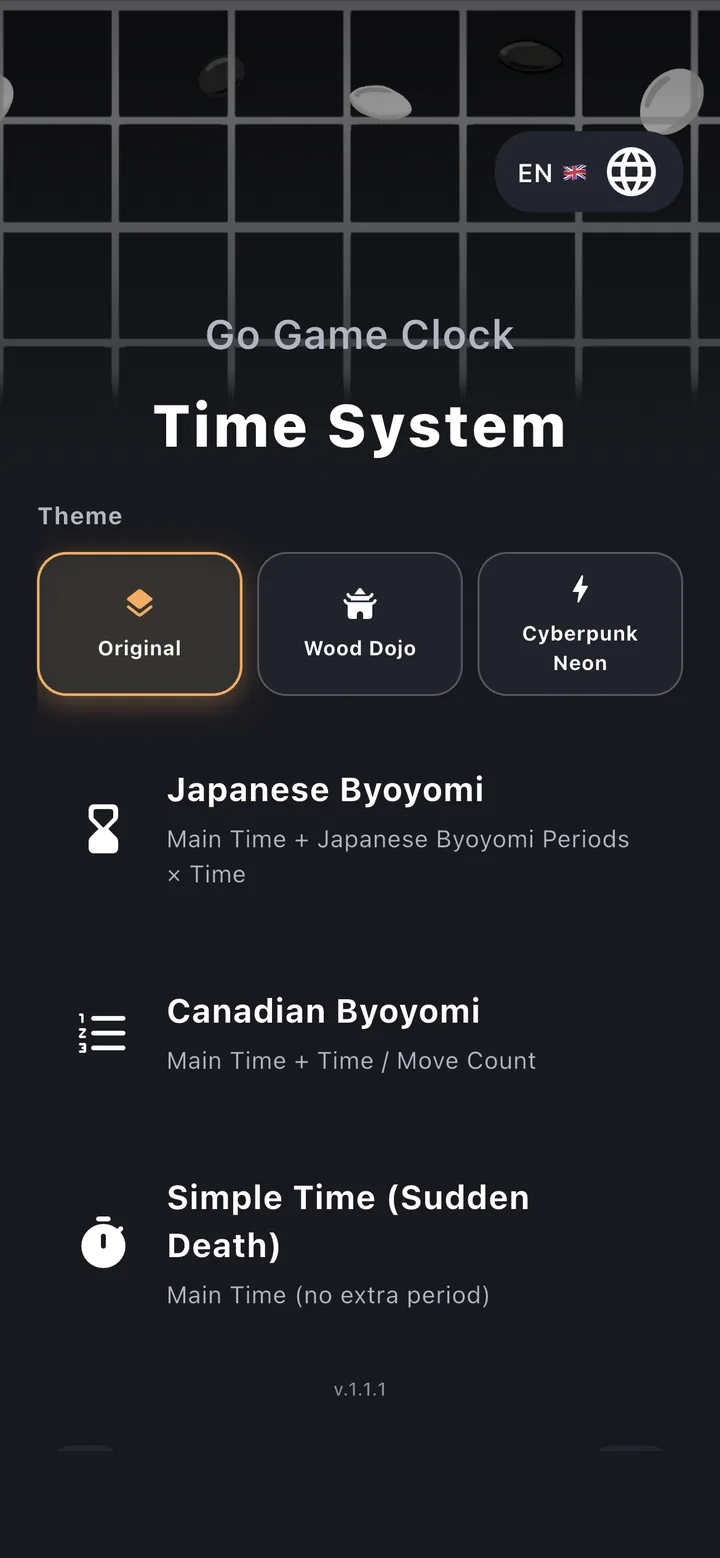
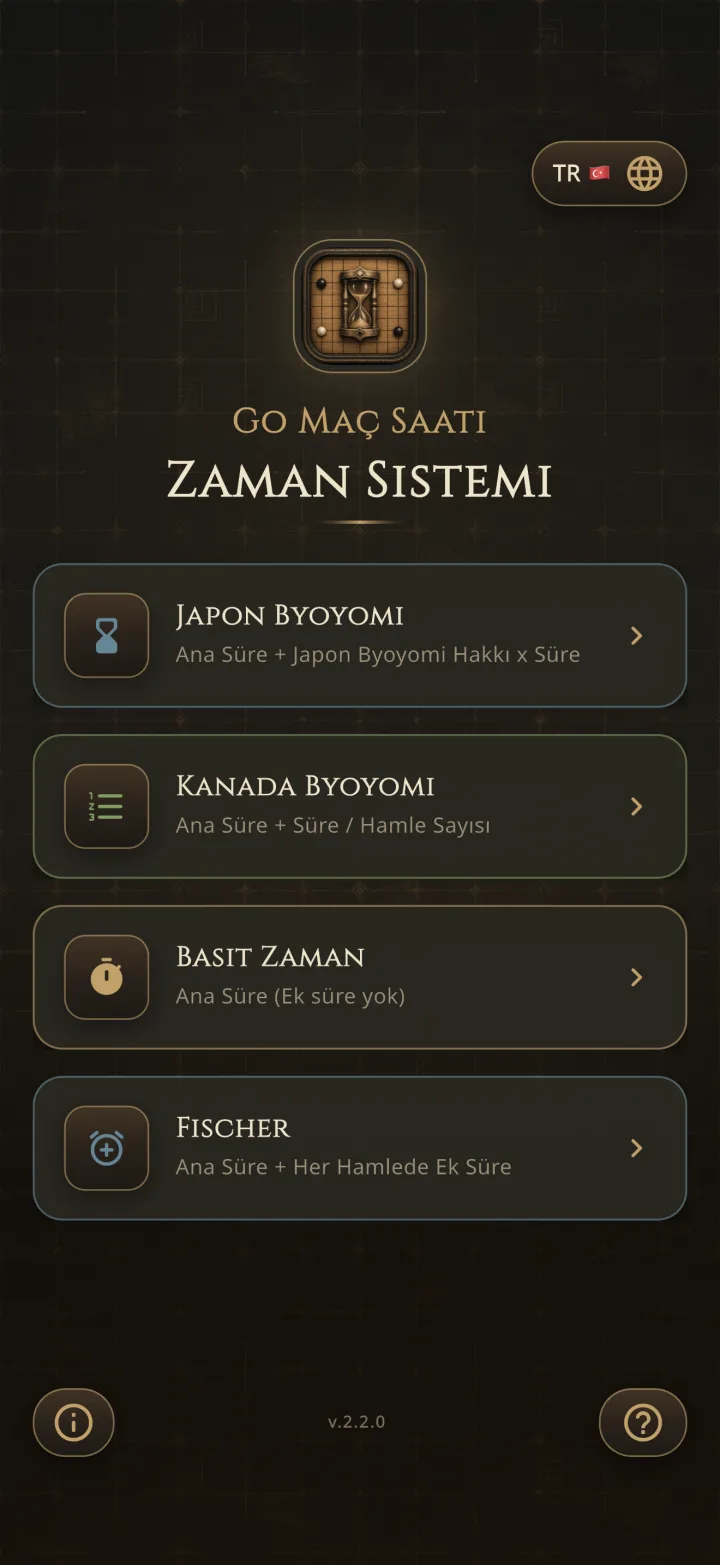
Gradient butonlar, Go Timer gorseli, magaza linkleri ve icerik guncellemeleri
- .btn-3d artik hero basligiyla ayni gradienti kullaniyor (tema degiskenleriyle)
- Go Timer gorseli v2.2.0 TR ana ekraniyla degistirildi
- Chess Trainer projesi ve gorseli kaldirildi
- Proje linkleri tek url yerine coklu links[] dizisine cevrildi
  (Go Timer: Play + App Store, BKS grubuna Play developer linki)
- BKS gorsellerine telif notu eklendi
- Yetenekler: Firebase eklendi, MongoDB/PHP-MySQL/GetX cikarildi,
  Flutter kopru ve is sagligi guvenligi kalemleri eklendi
- Mimari haritasinda automation dugumu: Agents + LLM + Engines

diff --git a/src/i18n/content.js b/src/i18n/content.js
@@ -62,11 +62,11 @@ export const content = {
       categories: [
         {
           name: 'Mobile Development',
-          items: ['Flutter', 'Dart', 'State Management', 'Provider', 'Riverpod', 'GetX', 'Responsive UI', 'PDF Generation'],
+          items: ['Flutter', 'Dart', 'State Management', 'Provider', 'Riverpod', 'Responsive UI', 'PDF Generation'],
         },
         {
           name: 'Backend & API',
-          items: ['Node.js', 'Express', 'REST API', 'MongoDB', 'PHP & MySQL', 'Serverless akışlar'],
+          items: ['Node.js', 'Express', 'REST API', 'Firebase', 'Serverless akışlar'],
         },
         {
           name: 'Firebase & Cloud',
@@ -82,11 +82,11 @@ export const content = {
         },
         {
           name: 'AI & Automation',
-          items: ['Otomasyon Akışları', 'AI Destekli Kod Akışı', 'Süreç Otomasyonu'],
+          items: ['Otomasyon Akışları', 'AI Destekli Kod Akışı', 'Süreç Otomasyonu', 'Mobil Cihaz + Flutter Köprüsü'],
         },
         {
           name: 'Other',
-          items: ['React.js', 'Data Modeling', 'Dashboard & Veri Görselleştirme', 'Proje Yönetimi', 'İnşaat Mühendisliği'],
+          items: ['React.js', 'Data Modeling', 'Dashboard & Veri Görselleştirme', 'Proje Yönetimi', 'İnşaat Mühendisliği', 'İş Sağlığı ve Güvenliği'],
         },
       ],
     },
@@ -151,12 +151,15 @@ export const content = {
           title: 'BKS Uygulama Ailesi',
           blurb: 'Bayi sipariş panelinden akıllı cam kontrolüne — Logo Tiger ERP’ye bağlı, sahada her gün kullanılan kurumsal uygulama ailesi.',
           codes: ['platform/bks-panel', 'app/bks-flow', 'app/bks-smart'],
+          imageNote: 'Telif nedeniyle temsili görsel kullanılmıştır.',
+          storeLabel: 'Tüm BKS uygulamaları',
+          storeUrl: 'https://play.google.com/store/apps/dev?id=8979242274205666665',
         },
         {
           key: 'indie',
           title: 'Bağımsız Uygulamalar',
           blurb: 'Go turnuva saatinden strateji oyununa ve belediye servislerine — kendi başıma tasarlayıp yayınladığım, reklamsız uygulamalar.',
-          codes: ['app/kento', 'app/go-timer', 'game/kapan', 'gov/municipal-suite', 'app/chess-trainer'],
+          codes: ['app/kento', 'app/go-timer', 'game/kapan', 'gov/municipal-suite'],
         },
       ],
       items: [
@@ -172,7 +175,7 @@ export const content = {
           ],
           code: 'platform/bks-panel',
           image: '/projects/bks-panel-blueprint.svg',
-          url: 'https://play.google.com/store/apps/details?id=com.bkscam.bksbayiapp',
+          links: [{ kind: 'play', url: 'https://play.google.com/store/apps/details?id=com.bkscam.bksbayiapp' }],
         },
         {
           name: 'BKS Flow',
@@ -186,7 +189,7 @@ export const content = {
           ],
           code: 'app/bks-flow',
           image: '/projects/bks-flow-blueprint.svg',
-          url: 'https://play.google.com/store/apps/details?id=com.bkscam.bksflow',
+          links: [{ kind: 'play', url: 'https://play.google.com/store/apps/details?id=com.bkscam.bksflow' }],
         },
         {
           name: 'BKS Smart',
@@ -200,7 +203,7 @@ export const content = {
           ],
           code: 'app/bks-smart',
           image: '/projects/bks-smart-blueprint.svg',
-          url: 'https://play.google.com/store/apps/details?id=com.bkscam.bks',
+          links: [{ kind: 'play', url: 'https://play.google.com/store/apps/details?id=com.bkscam.bks' }],
         },
         {
           name: 'Municipal Service Applications',
@@ -241,7 +244,10 @@ export const content = {
           tags: ['Flutter', 'Android', 'Google Play'],
           code: 'app/go-timer',
           image: '/projects/go-timer.webp',
-          url: 'https://play.google.com/store/apps/details?id=com.borakececi.gotimer',
+          links: [
+            { kind: 'play', url: 'https://play.google.com/store/apps/details?id=com.borakececi.gotimer' },
+            { kind: 'apple', url: 'https://apps.apple.com/app/go-baduk-weiqi-timer/id6790043280' },
+          ],
         },
         {
           name: 'Kapan — Siege Duel',
@@ -255,7 +261,7 @@ export const content = {
           tags: ['Flutter', 'Firebase', 'Cloud Functions', 'Multiplayer'],
           code: 'game/kapan',
           status: 'App Store’da yayında · Google Play’de kapalı test',
-          url: 'https://apps.apple.com/app/siege-duel-trap-strategy/id6790388211',
+          links: [{ kind: 'apple', url: 'https://apps.apple.com/app/siege-duel-trap-strategy/id6790388211' }],
           image: '/projects/kapan.webp',
         },
         {
@@ -265,20 +271,6 @@ export const content = {
           code: 'hardware/esp32-lab',
           image: '/projects/esp32-lab-blueprint.svg',
           wide: true,
-        },
-        {
-          name: 'Chess Trainer',
-          desc: 'Reklamsız ve çevrimdışı satranç antrenörü: ~20.000 Lichess bulmacası, körleme antrenmanı, açılışlar ve yapay zekâya karşı oyun — yeni güncellemeyle 15 dilde, Google Play’de yayında.',
-          features: [
-            '5 antrenman modülü: koordinat, körleme, taktik, açılış, yapay zekâya karşı oyun',
-            '~20.000 puanlı Lichess bulmacası — tamamı cihazda, internetsiz',
-            'Günlük seri, günlük hedef ve mod bazında kişisel rekorlar',
-            '15 dil · reklamsız · hesapsız · kendi tahta widget’ı',
-          ],
-          tags: ['Flutter', 'Dart', 'Çevrimdışı', 'Lichess Puzzles'],
-          code: 'app/chess-trainer',
-          image: '/projects/chess.webp',
-          url: 'https://play.google.com/store/apps/details?id=com.borakececi.chess_trainer',
         },
       ],
     },
@@ -404,11 +396,11 @@ export const content = {
       categories: [
         {
           name: 'Mobile Development',
-          items: ['Flutter', 'Dart', 'State Management', 'Provider', 'Riverpod', 'GetX', 'Responsive UI', 'PDF Generation'],
+          items: ['Flutter', 'Dart', 'State Management', 'Provider', 'Riverpod', 'Responsive UI', 'PDF Generation'],
         },
         {
           name: 'Backend & API',
-          items: ['Node.js', 'Express', 'REST API', 'MongoDB', 'PHP & MySQL', 'Serverless workflows'],
+          items: ['Node.js', 'Express', 'REST API', 'Firebase', 'Serverless workflows'],
         },
         {
           name: 'Firebase & Cloud',
@@ -424,11 +416,11 @@ export const content = {
         },
         {
           name: 'AI & Automation',
-          items: ['Automation Workflows', 'AI-assisted Coding', 'Process Automation'],
+          items: ['Automation Workflows', 'AI-assisted Coding', 'Process Automation', 'Mobile Device + Flutter Bridge'],
         },
         {
           name: 'Other',
-          items: ['React.js', 'Data Modeling', 'Dashboards & Data Viz', 'Project Management', 'Civil Engineering'],
+          items: ['React.js', 'Data Modeling', 'Dashboards & Data Viz', 'Project Management', 'Civil Engineering', 'Occupational Health & Safety'],
         },
       ],
     },
@@ -493,12 +485,15 @@ export const content = {
           title: 'BKS App Family',
           blurb: 'From the dealer ordering panel to smart glass control — a family of enterprise apps tied to Logo Tiger ERP, used in the field every day.',
           codes: ['platform/bks-panel', 'app/bks-flow', 'app/bks-smart'],
+          imageNote: 'Representative visuals used for copyright reasons.',
+          storeLabel: 'All BKS apps',
+          storeUrl: 'https://play.google.com/store/apps/dev?id=8979242274205666665',
         },
         {
           key: 'indie',
           title: 'Independent Apps',
           blurb: 'From a Go tournament clock to a strategy game and municipal services — ad-free apps I design and ship on my own.',
-          codes: ['app/kento', 'app/go-timer', 'game/kapan', 'gov/municipal-suite', 'app/chess-trainer'],
+          codes: ['app/kento', 'app/go-timer', 'game/kapan', 'gov/municipal-suite'],
         },
       ],
       items: [
@@ -514,7 +509,7 @@ export const content = {
           ],
           code: 'platform/bks-panel',
           image: '/projects/bks-panel-blueprint.svg',
-          url: 'https://play.google.com/store/apps/details?id=com.bkscam.bksbayiapp',
+          links: [{ kind: 'play', url: 'https://play.google.com/store/apps/details?id=com.bkscam.bksbayiapp' }],
         },
         {
           name: 'BKS Flow',
@@ -528,7 +523,7 @@ export const content = {
           ],
           code: 'app/bks-flow',
           image: '/projects/bks-flow-blueprint.svg',
-          url: 'https://play.google.com/store/apps/details?id=com.bkscam.bksflow',
+          links: [{ kind: 'play', url: 'https://play.google.com/store/apps/details?id=com.bkscam.bksflow' }],
         },
         {
           name: 'BKS Smart',
@@ -542,7 +537,7 @@ export const content = {
           ],
           code: 'app/bks-smart',
           image: '/projects/bks-smart-blueprint.svg',
-          url: 'https://play.google.com/store/apps/details?id=com.bkscam.bks',
+          links: [{ kind: 'play', url: 'https://play.google.com/store/apps/details?id=com.bkscam.bks' }],
         },
         {
           name: 'Municipal Service Applications',
@@ -583,7 +578,10 @@ export const content = {
           tags: ['Flutter', 'Android', 'Google Play'],
           code: 'app/go-timer',
           image: '/projects/go-timer.webp',
-          url: 'https://play.google.com/store/apps/details?id=com.borakececi.gotimer',
+          links: [
+            { kind: 'play', url: 'https://play.google.com/store/apps/details?id=com.borakececi.gotimer' },
+            { kind: 'apple', url: 'https://apps.apple.com/app/go-baduk-weiqi-timer/id6790043280' },
+          ],
         },
         {
           name: 'Kapan — Siege Duel',
@@ -597,7 +595,7 @@ export const content = {
           tags: ['Flutter', 'Firebase', 'Cloud Functions', 'Multiplayer'],
           code: 'game/kapan',
           status: 'Live on the App Store · Google Play closed testing',
-          url: 'https://apps.apple.com/app/siege-duel-trap-strategy/id6790388211',
+          links: [{ kind: 'apple', url: 'https://apps.apple.com/app/siege-duel-trap-strategy/id6790388211' }],
           image: '/projects/kapan.webp',
         },
         {
@@ -607,20 +605,6 @@ export const content = {
           code: 'hardware/esp32-lab',
           image: '/projects/esp32-lab-blueprint.svg',
           wide: true,
-        },
-        {
-          name: 'Chess Trainer',
-          desc: 'An ad-free, offline chess trainer: ~20,000 Lichess puzzles, blindfold training, openings, and play vs AI — now in 15 languages, live on Google Play.',
-          features: [
-            '5 training modules: coordinates, blindfold, tactics, openings, play vs AI',
-            '~20,000 rated Lichess puzzles — all on-device, no internet needed',
-            'Daily streak, daily goal, and per-mode personal bests',
-            '15 languages · ad-free · no accounts · custom-built board widget',
-          ],
-          tags: ['Flutter', 'Dart', 'Offline', 'Lichess Puzzles'],
-          code: 'app/chess-trainer',
-          image: '/projects/chess.webp',
-          url: 'https://play.google.com/store/apps/details?id=com.borakececi.chess_trainer',
         },
       ],
     },

diff --git a/src/index.css b/src/index.css
@@ -31,6 +31,13 @@
     --hero-gradient-end: #3fe0ff;
     --secondary-button-top: 29 36 48;
     --secondary-button-bottom: 18 21 28;
+    /* primary buttons wear the same gradient as the hero headline */
+    --button-gradient: linear-gradient(110deg, #ffffff 10%, #b9c4d4 45%, #3fe0ff 100%);
+    --button-gradient-solid: #b9c4d4;
+    --button-text: 7 16 20;
+    --button-border: 7 16 20 / 0.16;
+    --button-hover-filter: brightness(1.06) saturate(1.06);
+    --button-active-filter: brightness(0.94);
     --ambient-spotlight: radial-gradient(55% 55% at 50% 0%, rgb(63 224 255 / 0.06), transparent 70%);
     --ambient-vignette: radial-gradient(120% 120% at 50% 0%, transparent 55%, rgb(5 6 9 / 0.85) 100%);
     --architecture-glow: radial-gradient(circle at 50% 50%, rgb(63 224 255 / 0.08), transparent 42%);
@@ -75,6 +82,13 @@
     --hero-gradient-end: #007a8a;
     --secondary-button-top: 255 255 255;
     --secondary-button-bottom: 237 242 247;
+    /* primary buttons wear the same gradient as the hero headline */
+    --button-gradient: linear-gradient(110deg, #0f172a 10%, #334155 45%, #007a8a 100%);
+    --button-gradient-solid: #334155;
+    --button-text: 255 255 255;
+    --button-border: 15 23 42 / 0.22;
+    --button-hover-filter: brightness(1.22);
+    --button-active-filter: brightness(0.9);
     --ambient-spotlight: radial-gradient(55% 55% at 50% 0%, rgb(0 122 138 / 0.11), transparent 70%);
     --ambient-vignette: radial-gradient(120% 120% at 50% 0%, transparent 58%, rgb(148 163 184 / 0.2) 100%);
     --architecture-glow: radial-gradient(circle at 50% 50%, rgb(0 122 138 / 0.1), transparent 44%);
@@ -197,19 +211,20 @@
 
   /* Flat action buttons. The legacy class name is kept to avoid churn at call sites. */
   .btn-3d {
-    @apply relative inline-flex items-center justify-center gap-2 rounded-xl border font-semibold text-on-accent;
-    background: #35cdea;
-    border-color: rgb(7 16 20 / 0.16);
+    @apply relative inline-flex items-center justify-center gap-2 rounded-xl border font-semibold;
+    color: rgb(var(--button-text));
+    background-color: var(--button-gradient-solid);
+    background-image: var(--button-gradient);
+    border-color: rgb(var(--button-border));
     box-shadow: none;
     transition: background-color 0.18s ease, border-color 0.18s ease, filter 0.18s ease;
   }
   .btn-3d:hover {
-    background: #52d8ef;
-    border-color: rgb(7 16 20 / 0.24);
+    filter: var(--button-hover-filter);
   }
   .btn-3d:active {
     transform: none;
-    background: #2ebdd7;
+    filter: var(--button-active-filter);
     box-shadow: none;
   }
 

diff --git a/src/components/ProjectDialog.jsx b/src/components/ProjectDialog.jsx
@@ -85,6 +85,16 @@ export function ProjectDialog({ group, labels, onClose }) {
         {/* header */}
         <div className="flex items-center gap-3 border-b border-line bg-panel-2/80 px-4 py-3 sm:px-5">
           <span className="label">{group.title}</span>
+          {group.storeUrl && (
+            <a
+              href={group.storeUrl}
+              target="_blank"
+              rel="noreferrer"
+              className="hidden whitespace-nowrap font-mono text-[11px] text-muted underline-offset-4 transition-colors hover:text-accent hover:underline sm:inline"
+            >
+              {group.storeLabel} ↗
+            </a>
+          )}
           <span className="ml-auto whitespace-nowrap font-mono text-xs text-faint">
             {index + 1} / {items.length}
           </span>
@@ -130,6 +140,11 @@ export function ProjectDialog({ group, labels, onClose }) {
                     item.wide ? 'max-h-[26vh] md:max-h-[30vh]' : 'max-h-[30vh] md:max-h-[44vh]'
                   }`}
                 />
+                {group.imageNote && (
+                  <span className="absolute bottom-2 right-3 z-10 max-w-[85%] text-right font-mono text-[9px] leading-tight tracking-wide text-faint/80 sm:text-[10px]">
+                    * {group.imageNote}
+                  </span>
+                )}
               </div>
 
               {/* text side */}
@@ -167,21 +182,22 @@ export function ProjectDialog({ group, labels, onClose }) {
                       {item.status}
                     </span>
                   )}
-                  {item.url && (
+                  {item.links?.map((link) => (
                     <a
-                      href={item.url}
+                      key={link.url}
+                      href={link.url}
                       target="_blank"
                       rel="noreferrer"
                       className="btn-3d px-4 py-2.5 text-sm"
                     >
-                      {item.url.includes('apps.apple.com')
+                      {link.kind === 'apple'
                         ? 'App Store'
-                        : item.url.includes('play.google.com')
+                        : link.kind === 'play'
                           ? 'Google Play'
                           : labels.open}
                       <ArrowUpRight size={15} />
                     </a>
-                  )}
+                  ))}
                 </div>
               </div>
             </motion.div>

diff --git a/src/components/Projects.jsx b/src/components/Projects.jsx
@@ -8,7 +8,7 @@ import { ProjectDialog } from './ProjectDialog'
 
 // Fanned stack of the group's first three screenshots — pure transforms,
 // spreads slightly on hover.
-function CardFan({ items }) {
+function CardFan({ items, note }) {
   const [left, center, right] = items.slice(0, 3)
   const frame =
     'absolute rounded-[1.1rem] border border-line/80 shadow-card transition-transform duration-500 will-change-transform'
@@ -43,6 +43,12 @@ function CardFan({ items }) {
       )}
 
       <div className="absolute inset-x-0 bottom-0 z-20 h-16 bg-gradient-to-t from-ink-2 via-ink-2/70 to-transparent" />
+
+      {note && (
+        <span className="absolute bottom-2 right-3 z-20 max-w-[85%] text-right font-mono text-[9px] leading-tight tracking-wide text-faint/80 sm:text-[10px]">
+          * {note}
+        </span>
+      )}
     </div>
   )
 }
@@ -104,7 +110,7 @@ export function Projects() {
             >
               <span className="sr-only">{p.cta}</span>
             </button>
-            <CardFan items={g.items} />
+            <CardFan items={g.items} note={g.imageNote} />
 
             <div className="flex flex-1 flex-col p-5">
               <div className="flex items-baseline justify-between gap-3">

diff --git a/src/components/ArchitectureMap.jsx b/src/components/ArchitectureMap.jsx
@@ -22,7 +22,7 @@ const nodes = [
     key: 'automation',
     code: '03 / AUTOMATION',
     title: 'AI + Automation',
-    detail: 'Agents + Workflows',
+    detail: 'Agents + LLM + Engines',
     icon: Sparkles,
     position: 'bottom-[9%] left-[4%]',
   },
